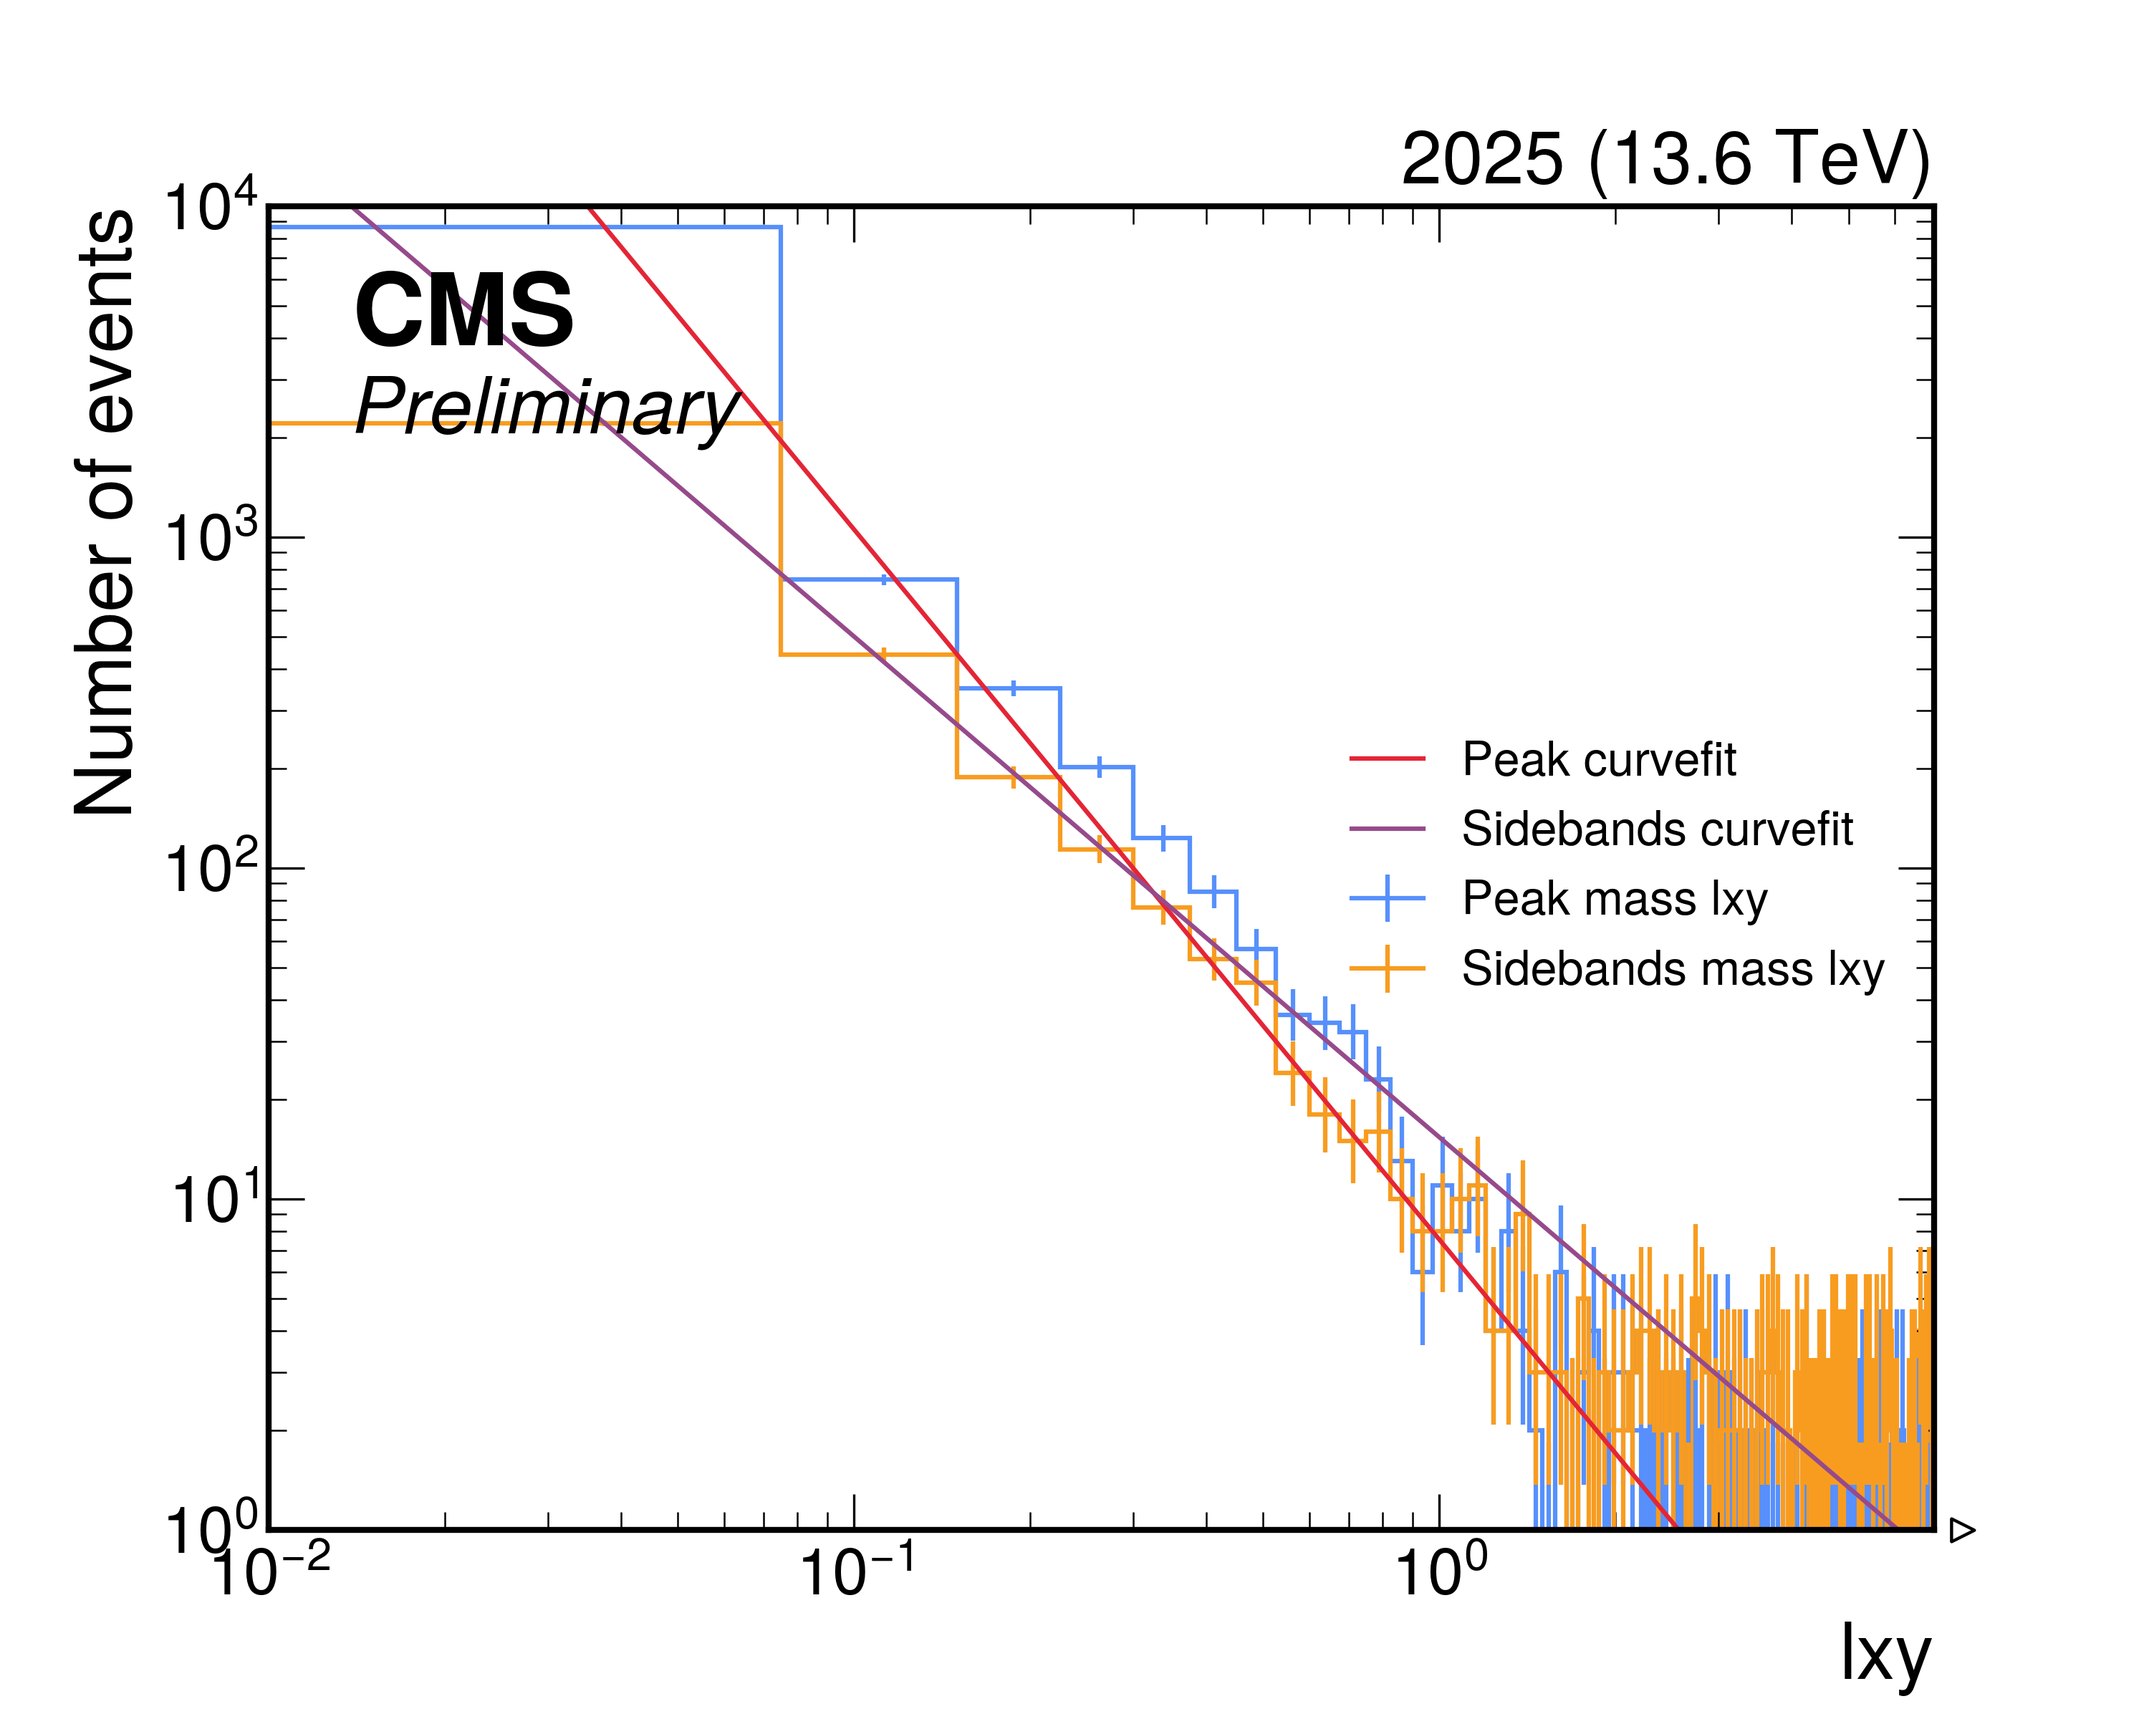
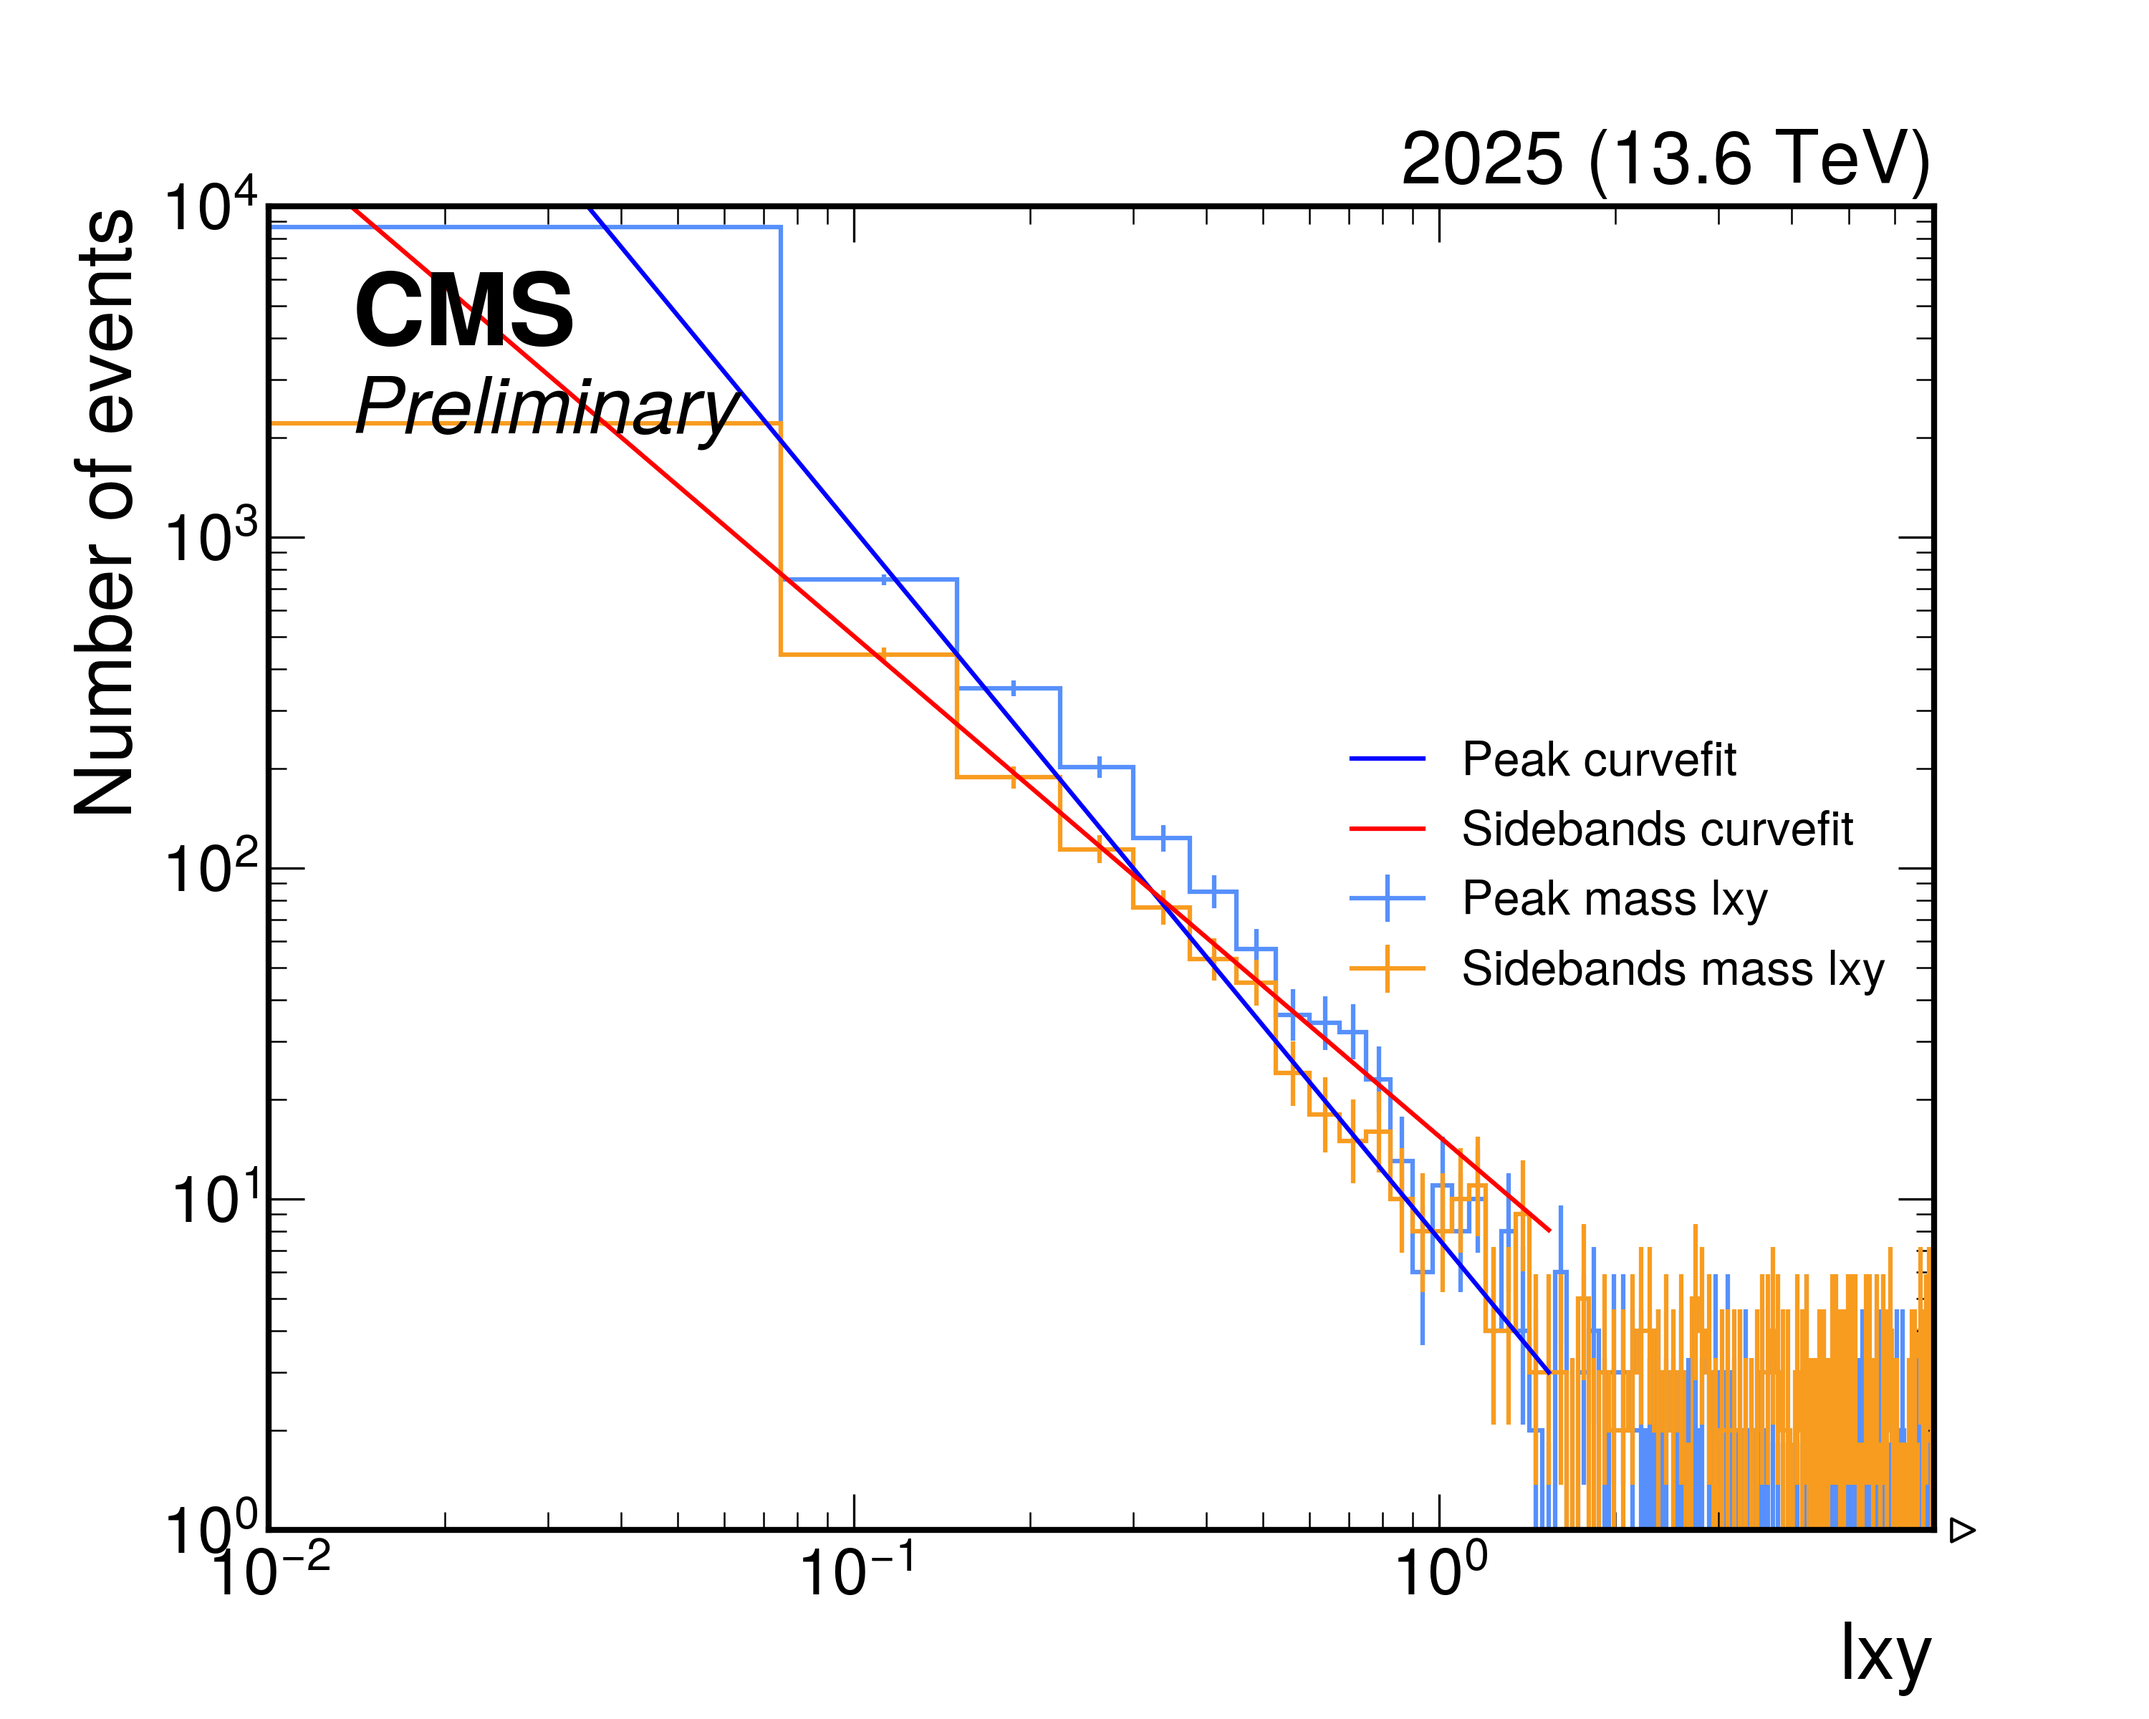
Restrict power law range

diff --git a/draw.py b/draw.py
@@ -55,13 +55,14 @@ print(peak_bin_values)
 print(peak_bin_centers)
 # print(sidebands_bin_values)
 
-pk_param, pk_param_cov = curve_fit(func, peak_bin_centers, peak_bin_values)
-sb_param, sb_param_cov = curve_fit(func, sidebands_bin_centers, sidebands_bin_values)
+center_maximum = 21
+pk_param, pk_param_cov = curve_fit(func, peak_bin_centers[:center_maximum:], peak_bin_values[:center_maximum:])
+sb_param, sb_param_cov = curve_fit(func, sidebands_bin_centers[:center_maximum:], sidebands_bin_values[:center_maximum:])
 
 print("Peak params:", pk_param)
 print("Sideband params:", sb_param)
 
-x = np.linspace(1e-2, 7.5, num = 750)
+x = np.linspace(1e-2, peak_bin_centers[center_maximum-1], num = center_maximum) # where power law is strongest fit
 pk_y = func(x, pk_param[0], pk_param[1])
 sb_y = func(x, sb_param[0], sb_param[1])
 
@@ -99,8 +100,8 @@ hep.cms.label("Preliminary", data=True, year='2025', com='13.6', ax=ax, loc=2)
 h_lxy_peak.plot(ax=ax, label="Peak mass lxy")
 h_lxy_sidebands.plot(ax=ax, label="Sidebands mass lxy")
 
-plt.plot(x, pk_y, label="Peak curvefit")
-plt.plot(x, sb_y, label="Sidebands curvefit")
+plt.plot(x, pk_y, label="Peak curvefit", color="blue")
+plt.plot(x, sb_y, label="Sidebands curvefit", color="red")
 
 ax.legend(loc='center right', fontsize = 16, frameon = False, ncol=1)
 ax.set_xlim(1e-2, 7)
